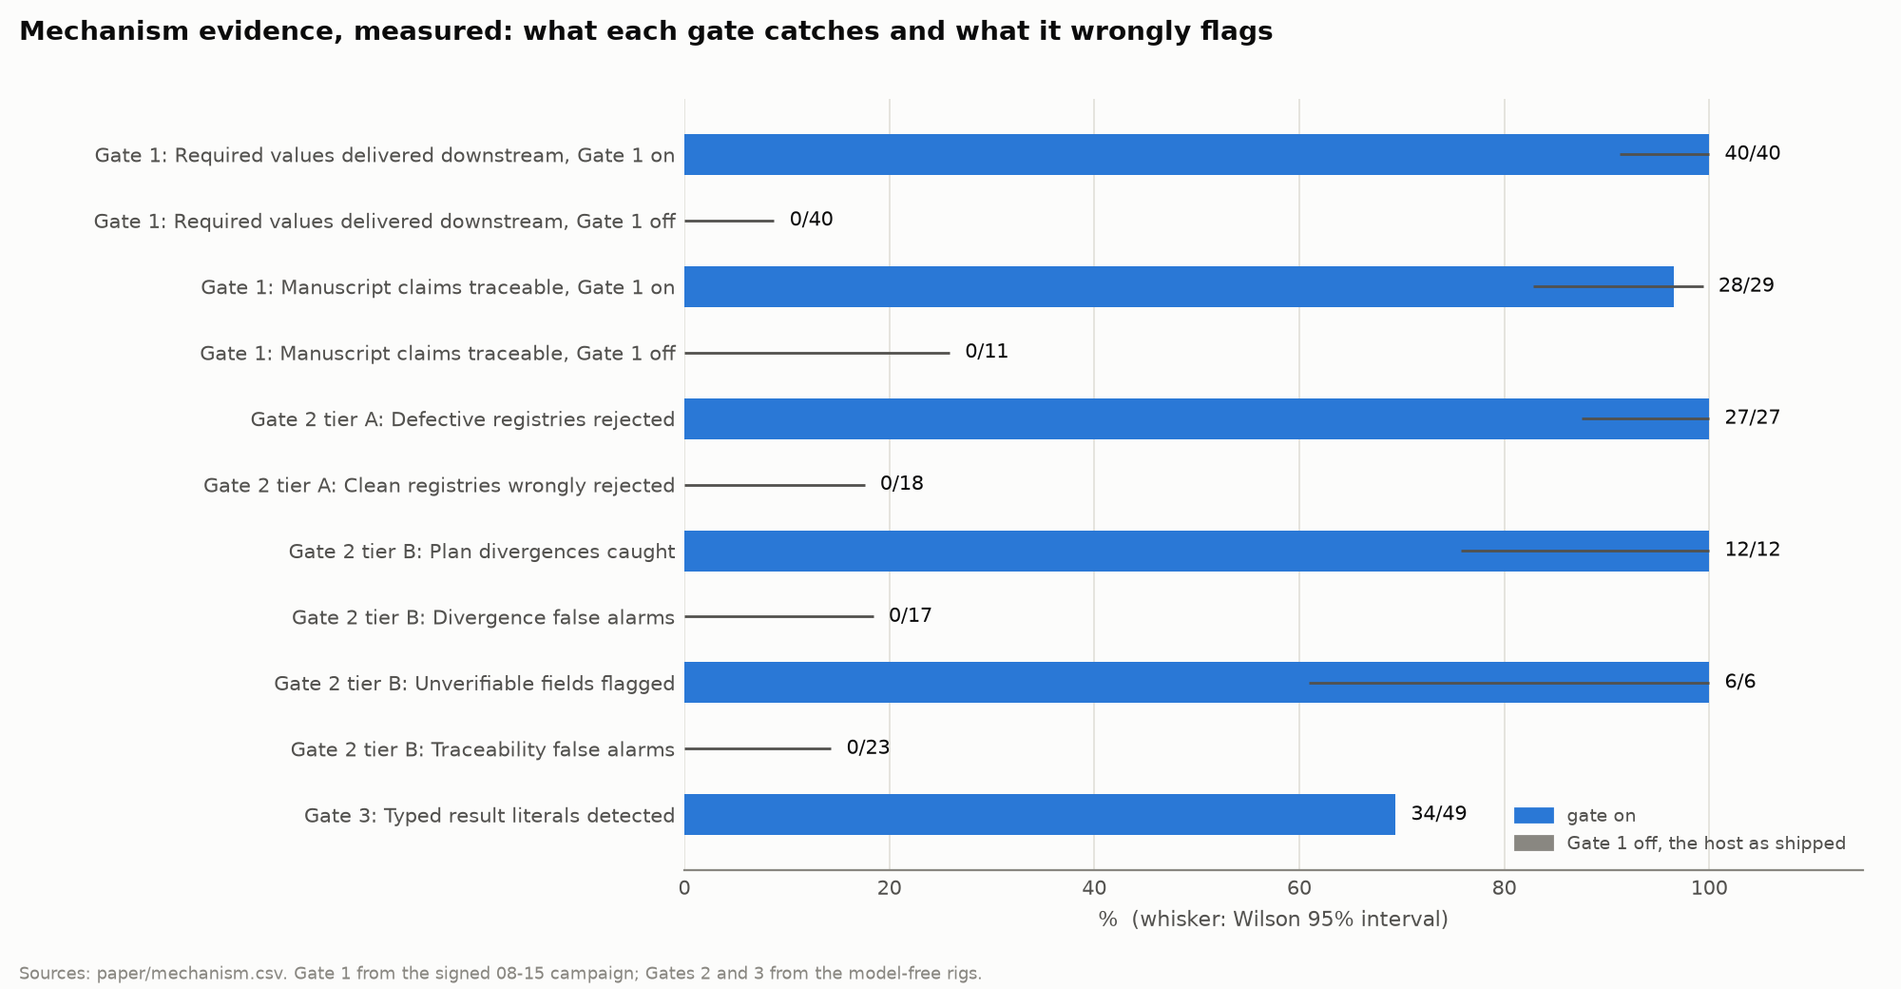
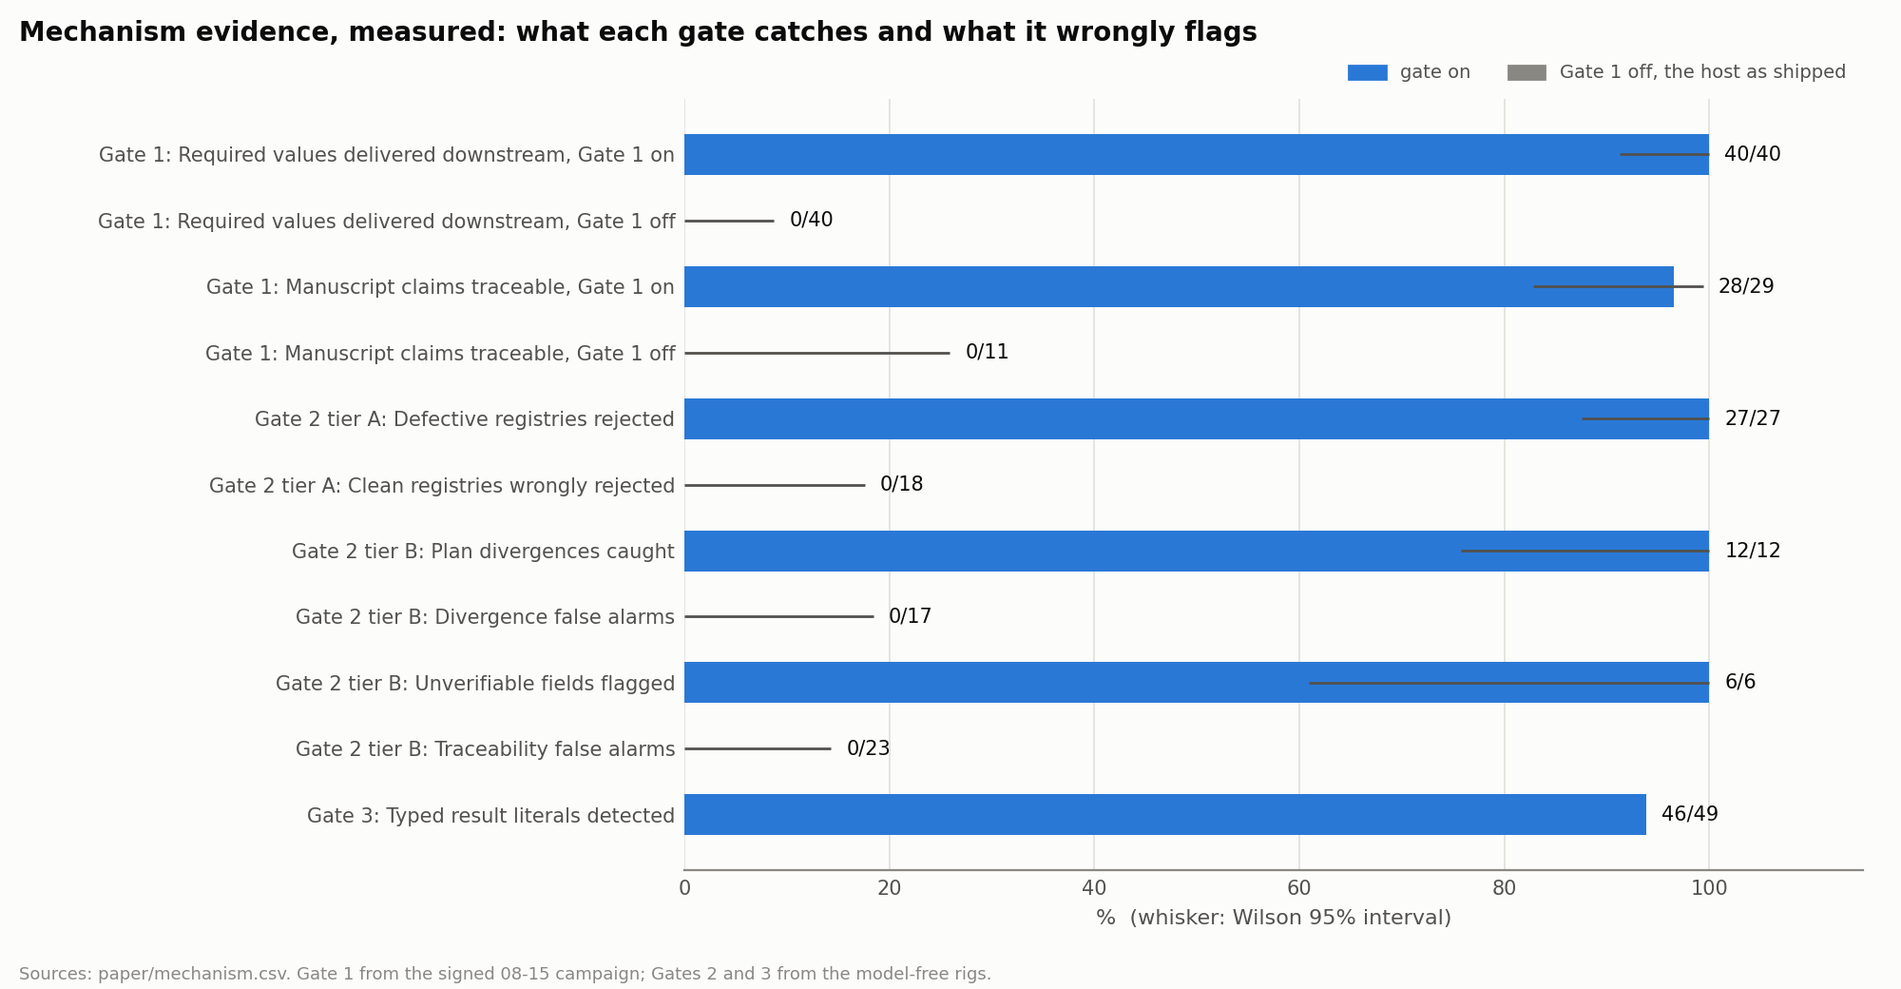
Gate 3 scanner: mask a reference per token instead of skipping its line (D76) (#8)
Supersedes D38 for this one rule. G3-M4 moves from 34 to 46 of 49
detected (all 12 skipped-line misses recovered, 2 new false positives
pending label review); Gate 1 traceability on the 08-15 campaign's gated
paper re-measures from 28 of 29 to 34 of 37. The signed package keeps
its vintage; figure 8 is redrawn.

diff --git a/gates/prose.py b/gates/prose.py
@@ -17,9 +17,12 @@ findings because it could not read the file is the exact defect this project
 exists to catch, so :func:`claim_sections` exists to make coverage visible: an
 audit over zero sections must never be presented as an audit that found nothing.
 
-LaTeX behaviour is deliberately unchanged. The published Gate 1 traceability
-number came from this scanner reading ``.tex``, and altering that path would
-silently restate a measured result.
+LaTeX behaviour was frozen until D76, because the published Gate 1
+traceability number came from this scanner reading ``.tex`` (D38). D76 masks
+references and citations per token instead of skipping their lines, and
+re-measures both numbers it restates: G3-M4 from 34 to 46 of 49, and Gate 1
+traceability on the 08-15 campaign's gated paper from 28 of 29 claims to 34 of
+37. The signed package keeps its vintage.
 """
 
 from __future__ import annotations
@@ -42,11 +45,32 @@ CLAIM_SECTIONS = (
     "conclusion",
 )
 
-#: LaTeX scaffolding whose numbers are structural, not empirical.
+#: LaTeX scaffolding whose numbers are structural, not empirical. A line
+#: carrying one is not prose, so every number on it is skipped.
 SKIP_LINE = re.compile(
-    r"\\(usepackage|documentclass|geometry|label|ref|cite|includegraphics|"
+    r"\\(usepackage|documentclass|geometry|includegraphics|"
     r"begin\{equation|end\{equation|section|subsection)"
 )
+
+#: A cross-reference, citation or label inside a sentence: ``\ref{tab:2}``,
+#: ``\eqref{eq:1}``, ``\citep[p.~3]{smith2020}``, ``\label{fig:3}``. Its digits
+#: are an identifier, so the command is masked and the rest of the line is
+#: still read (D76). Until D76 any such command skipped the whole line, which
+#: hid 12 of G3-M4's 15 missed results.
+REFERENCE = re.compile(
+    r"\\(?:[A-Za-z]*ref|[A-Za-z]*cite[A-Za-z]*|label)\*?(?:\[[^\]]*\])*\{[^}]*\}"
+)
+
+
+def scannable(line: str) -> str | None:
+    """The line as the claim scanner reads it, or ``None`` when it is scaffolding.
+
+    References and citations are blanked token by token, and arXiv ids with
+    them; what remains is read for numbers.
+    """
+    if SKIP_LINE.search(line):
+        return None
+    return CITATION.sub(" ", REFERENCE.sub(" ", line))
 
 #: Citation identifiers, removed before claims are extracted.
 #:
@@ -126,9 +150,10 @@ def claim_sections(paper_text: str) -> list[str]:
 
 def flags_claim(line: str) -> bool:
     """Whether :func:`extract_claims` takes a number from this findings line."""
-    if SKIP_LINE.search(line):
+    text = scannable(line)
+    if text is None:
         return False
-    return any(is_claim(token) for token in NUMBER.findall(CITATION.sub(" ", line)))
+    return any(is_claim(token) for token in NUMBER.findall(text))
 
 
 def sections(paper_text: str) -> list[tuple[str, str]]:
@@ -157,11 +182,11 @@ def extract_claims(paper_text: str) -> list[Claim]:
         if heading is not None:
             section = heading
             continue
-        if SKIP_LINE.search(line):
-            continue
         if not any(s in section for s in CLAIM_SECTIONS):
             continue
-        line = CITATION.sub(" ", line)
+        line = scannable(line)
+        if line is None:
+            continue
         for token in NUMBER.findall(line):
             if not is_claim(token):
                 continue

diff --git a/tests/test_gate3.py b/tests/test_gate3.py
@@ -34,7 +34,7 @@ from gates.gate3 import (
     run_gate3,
 )
 from gates.registry import CHAIN_LINKS, CLAIM_LINK, build_registry, citable_settings, citable_values
-from gates.prose import claim_sections
+from gates.prose import claim_sections, extract_claims
 from gates.report import render_feedback
 from gates.schema import PaperRecord, Severity, Verdict
 from gates.setup import defaults
@@ -1305,4 +1305,38 @@ def test_the_archived_manuscript_types_its_own_numbers(tmp_path):
     assert literals.evidence["sections_scanned"] == [
         "abstract", "results", "discussion"
     ]
-    assert len(literals.evidence["literals"]) == 29
+    # 29 while any \ref skipped its whole line; 37 once the reference is masked (D76).
+    assert len(literals.evidence["literals"]) == 37
+
+
+# --------------------------------------------------------------------------- #
+# the scanner masks references per token (D76)
+# --------------------------------------------------------------------------- #
+
+
+@pytest.mark.parametrize(
+    "line, found",
+    [
+        ("As Table~\\ref{tab:2} shows, accuracy reaches 0.91.", [0.91]),
+        ("Accuracy reaches 0.91 \\citep[p.~12]{smith2020}.", [0.91]),
+        ("Loss falls to 1.25 (Figure~\\ref{fig:1.5}, Eq.~\\eqref{eq:2024}).", [1.25]),
+        ("\\label{tab:3.14}Accuracy is 0.88.", [0.88]),
+        ("See \\autoref{sec:4.2} and \\cite{a2019,b2020}.", []),
+    ],
+)
+def test_a_reference_is_masked_and_the_rest_of_its_line_is_read(line, found):
+    """D48: 12 of G3-M4's 15 misses sat on a line carrying a \\ref."""
+    claims = extract_claims(f"\\section{{Results}}\n{line}\n")
+    assert [c.value for c in claims] == found
+
+
+@pytest.mark.parametrize(
+    "line",
+    [
+        "\\includegraphics[width=0.85\\linewidth]{fig.png}",
+        "\\subsection{Results at 0.5}",
+        "\\usepackage[margin=1.25in]{geometry}",
+    ],
+)
+def test_a_structural_line_is_still_skipped_whole(line):
+    assert extract_claims(f"\\section{{Results}}\n{line}\n") == []

diff --git a/rig/gate3_scanner_miss.py b/rig/gate3_scanner_miss.py
@@ -5,9 +5,11 @@ unmeasured false-negative rate is a scanner a reviewer will not trust, and
 ``report.no_numeric_literals_in_results`` is a scanner over prose, so the
 "eliminated by construction" claim belongs to the *pipeline* and not to it.
 
-**This measures and does not fix (D38).** The published Gate 1 traceability
+**Measured, then fixed once (D38, D76).** The published Gate 1 traceability
 number came from this scanner reading ``.tex`` (see ``gates/prose.py``), so
-changing it restates a measured result. Every gap below is reported and left in
+D38 froze it and D48 reported 34 of 49. D76 lifted the freeze for one rule,
+masking references per token instead of skipping their lines, and the
+measurement moved to 46 of 49. Every remaining gap is reported and left in
 place.
 
 **Denominator (D39).** Two manuscripts, the gated and ungated arms of the
@@ -31,12 +33,11 @@ from pathlib import Path
 sys.path.insert(0, str(Path(__file__).resolve().parents[1]))
 
 from gates.prose import (  # noqa: E402
-    CITATION,
     CLAIM_SECTIONS,
     NUMBER,
-    SKIP_LINE,
     _heading,
     is_claim,
+    scannable,
 )
 
 from rig.gate3_m4_labels import (  # noqa: E402
@@ -132,9 +133,9 @@ def _scanner_reports(line: str, visible: bool = True) -> Counter[str]:
     line numbers and this measurement needs to know which line a finding came
     from. The steps below are its steps, in its order.
     """
-    if not visible or SKIP_LINE.search(line):
+    stripped = scannable(line) if visible else None
+    if stripped is None:
         return Counter()
-    stripped = CITATION.sub(" ", line)
     kept = [t for t in NUMBER.findall(stripped) if is_claim(t)]
     # context_of() locates a token with line.find(), so repeats of one token on
     # one line share a context and all but the first are deduplicated away.

diff --git a/tests/test_gate3_m4.py b/tests/test_gate3_m4.py
@@ -40,17 +40,20 @@ def test_the_measured_totals_are_the_ones_the_paper_will_quote(results):
     missed = sum(len(results[a].missed) for a in ARMS)
     false_positives = sum(len(results[a].false_positives) for a in ARMS)
 
-    assert (claims, detected, missed) == (49, 34, 15)
-    assert false_positives == 6
-    assert results["gated"].claims == 39 and results["gated"].detected == 28
-    assert results["ungated"].claims == 10 and results["ungated"].detected == 6
+    # D48 measured 34 of 49 with 6 false positives while a \ref skipped its
+    # whole line; D76 masks the reference instead and recovers all 12 of those.
+    assert (claims, detected, missed) == (49, 46, 3)
+    assert false_positives == 8
+    assert results["gated"].claims == 39 and results["gated"].detected == 36
+    assert results["ungated"].claims == 10 and results["ungated"].detected == 10
 
 
-def test_most_misses_have_a_single_cause(results):
-    """12 of 15. The headline is not the rate, it is that one line-level rule
-    accounts for four fifths of everything the scanner cannot see."""
+def test_no_miss_is_a_skipped_line_any_more(results):
+    """D48: 12 of 15 misses came from one line-level rule. D76 removed the rule
+    for references and citations, so what is left is the scanner's by design:
+    small integers and a value repeated on one line."""
     causes = [f.cause for a in ARMS for f in results[a].missed]
-    assert causes.count("skipped_line") == 12
+    assert causes.count("skipped_line") == 0
     assert causes.count("small_integer") == 2
     assert causes.count("duplicate_context") == 1
 

diff --git a/rig/gate3_m4_labels.py b/rig/gate3_m4_labels.py
@@ -102,6 +102,13 @@ FALSE_POSITIVES: dict[str, dict[int, tuple[tuple[str, str], ...]]] = {
             ("0.99", "decision threshold fixed before the run"),
             ("0.95", "decision threshold fixed before the run"),
         ),
+        # The same thresholds restated beside Section~\ref{sec:setup}; visible
+        # once D76 masked the reference instead of skipping the line. Added
+        # 09-29 by the same rule as line 305, pending Kesh's review (D37).
+        320: (
+            ("0.99", "decision threshold fixed before the run"),
+            ("0.95", "decision threshold fixed before the run"),
+        ),
         322: (("1500", "step count the paper specifies"),),
         326: (("1500", "step count the paper specifies"),),
     },
@@ -121,6 +128,8 @@ MISS_CAUSE: dict[tuple[str, int], str] = {
     ("gated", 254): "small_integer",     # "more than 91\%"
     ("ungated", 280): "skipped_line",    # "Table~\ref{tab:observed-loss}"
 }
+# Since D76 every skipped_line entry above is detected: a reference is masked
+# per token, not the whole line. The entries stay as D48's record of the causes.
 
 #: What each cause is, for the readout. ``skipped_line`` and ``small_integer``
 #: are the readout's; ``duplicate_context`` is not, and is the one this

diff --git a/paper/figures.py b/paper/figures.py
@@ -240,7 +240,9 @@ def mechanism_figure(name):
     fig.suptitle("Mechanism evidence, measured: what each gate catches and what it wrongly flags",
                  x=0.01, ha="left", fontsize=10, weight="bold", color=INK)
     ax.legend(handles=[Patch(color=GATED, label="gate on"), Patch(color=ALONE, label="Gate 1 off, the host as shipped")],
-              loc="lower right", frameon=False, fontsize=7, labelcolor=INK2)
+              # Above the plot, so no bar can run under it: at 46 of 49 Gate 3's did.
+              loc="lower right", bbox_to_anchor=(1.0, 1.0), ncol=2,
+              frameon=False, fontsize=7, labelcolor=INK2)
     fig.text(0.01, 0.01, "Sources: paper/mechanism.csv. Gate 1 from the signed 08-15 campaign; "
              "Gates 2 and 3 from the model-free rigs.", fontsize=6.5, color=MUTED)
     fig.subplots_adjust(left=0.36, right=0.98, top=0.9, bottom=0.12)

diff --git a/rig/gate3_scenarios.py b/rig/gate3_scenarios.py
@@ -57,8 +57,8 @@ WITH_LIMITATIONS = CLEAN + "\n\\section{Discussion}\n\\limitations{}\n"
 WITH_DISCUSSION = CLEAN + "\n\\section{Discussion}\nThe label budget matters less than expected.\n"
 
 #: A figure reference with no \label to resolve against, and the fix. The
-#: reference sits on its own line because prose.SKIP_LINE drops any line
-#: holding \ref, and the accuracy above it must stay visible to the scanner.
+#: reference sits on its own line, which predates D76: prose.SKIP_LINE dropped
+#: any line holding \ref until then, and the accuracy had to stay visible.
 DANGLING_REF = CLEAN + "\nAccuracy is plotted in Figure \\ref{fig:acc}.\n"
 LABELLED_REF = DANGLING_REF + "\\begin{figure}\\label{fig:acc}\\end{figure}\n"
 

diff --git a/gates/llm_claims.py b/gates/llm_claims.py
@@ -2,8 +2,8 @@
 
 Gate 1's log scan reads the log lines its patterns did not flag. This reads the
 findings prose the number scanner did not flag. ``prose.NUMBER`` needs a
-decimal point or four digits, ``SKIP_LINE`` drops whole ``\\cite`` lines, and
-``\\begin{abstract}`` is not a heading, so all of these pass it clean:
+decimal point or four digits, and ``\\begin{abstract}`` is not a heading, so
+all of these pass it clean:
 
     accuracy improves by 9 points
     eighty-one percent of the test nodes

diff --git a/paper/draft/main.tex b/paper/draft/main.tex
@@ -253,7 +253,7 @@ Gate & Result \\
 1 & 28/29 manuscript claims traceable, against 0/11 ungated \\
 2, tier A & 27/27 defects caught, 0/18 clean registries flagged \\
 2, tier B & 12/12 and 6/6 caught, 0/17 and 0/23 false alarms \\
-3 & 34 of 49 result literals detected in two archived manuscripts \\
+3 & 46 of 49 result literals detected in two archived manuscripts \\
 \bottomrule
 \end{tabular}
 \end{table}

diff --git a/progress.md b/progress.md
@@ -17,10 +17,10 @@ otherwise would be the same overclaim as a green check that never ran. Update th
 branch: main
 head: ad3a64e
 head_date: 2026-09-29
-tests_total: 801
+tests_total: 809
 tests_gate1: 130
 tests_gate2: 101
-tests_gate3: 100
+tests_gate3: 108
 tests_llm_scan: 21
 tests_llm_layer: 14
 <!-- STATE:END -->
@@ -242,6 +242,7 @@ Append-only. One line each: date, decision, where it is enforced.
 | 09-29 | D73 | **Gate 1 follows a literal through a container and a pure reducer.** From the 09-29 review's red team: `results = {'acc': 0.95}` then `results['acc']`, and `sum([0.95])`, passed `results.values_traced` silently. `_is_literal_derived` now follows dict displays, subscripts and slices, and `_PURE_CALLS` (`sum`, `min`, `max`, `sorted`, `mean`, `median`, `np.mean`, `np.array` and similar) when every argument is constant; converters take constant keywords (`round(x, ndigits=2)`). At the call site such a value is `literal` and fails `results.values_computed`; through a name it is `constant` and warns. A container the run fills after binding it is not constant (`_filled_containers`): an item or attribute store, a method call other than a read, or being passed to a call makes the name opaque, and aliases share it; a float passed to `print` stays constant. Test stand-ins that used `sum([1])` for a measurement now call a function the program defines (`measure`, `evaluate`), including `rig/gate2_scenarios.py`; the one they rely on is the new `# limit:` in `gates/static_checks.py`: a program-defined function is never looked inside, so `def measure(): return 0.95` still launders a literal. | `gates/static_checks.py` |
 | 09-29 | D74 | **The red team is a fixed rig, and its misses are stated outcomes.** `rig/red_team.py` plants a fabricated `exp1.test_acc` eleven ways plus an honest control, runs each once through the real Gates 1 and 2 at a budget of one, and sorts it `blocked`, `warned` (a warning names the key) or `silent`. Today, after D73: S1 literal at the call blocked; S2 variable, S3 dict, S4 reducer and S11 per-epoch-best-last warned; S5 random in band, S6 nudged, S7 best epoch, S8 dropped seed, S9 best seed and S10 train-as-test silent; S0 passes clean. Before D73 it was 1, 2 and 8. `tests/test_red_team.py` holds each outcome, so a gate that starts catching one is a changed test, and the six silent method-level strategies are the Limitations the paper states: each records a value real computation produced. | `rig/red_team.py`, `tests/test_red_team.py` |
 | 09-29 | D75 | **Settings get their own call and token, and a constant result fails.** Decided by Kesh (the full split, after D72). `record_setting(key, value, unit=)` joins `record_result` and `record_metadata` in the harness; `ExecutionRecord.settings`, the registry's `settings` section (no claim chain) and `registry.citable_settings` carry it; schema 1.2. Gate 3: `\setting{key}` renders from the settings and resolves only there (`TOKEN`, `Substitution.kind`); a `\result{}` naming a setting, or a `\setting{}` naming a result, is missing. D71's exemption is removed, and with it D72's `Claim.text` and `prose.spelled`, which had no other reader: every bare numeral in a findings section fails again, whatever the keys contain. Gate 1: `results.values_traced` is FAIL, and its message and fix text point at `record_setting`; B8's decoy check and `arg_kind` apply to settings. Gate 2 plan fields resolve against settings and results. `MLE_GATE_INSTRUCTIONS` and `REPORT_GATE_INSTRUCTIONS` in `gates/pipeline.py` teach both, and the writer's evidence bundle lists RECORDED SETTINGS apart from the results. The host imports both prompts and Gate 3's renderer from gates (`ai_lab_repo.py:2`, `mlesolver.py:13`, `ai_lab_repo.py:445` at `d36cb06`), so no host code changes; a wave pinned at or after this commit runs the new prompts. Red team (D74) now 14 strategies: S2-S4 blocked (4 blocked, 1 warned, 9 silent); S12 a result recorded as a setting, S13 tuple unpacking and S14 a program-defined function are silent and stated limits. Test fixtures that stood for a measurement with a plain constant now use tuple unpacking or a `measure()` the program defines; `rig/scenarios.py` WARNS_BUT_PASSES and LEAK_BINDS likewise, and `rig/gate2_scenarios.py` records its plan values with `record_setting`. Cost: waves 2-3 ran with the old contract, so a level 3 paper of theirs is not comparable in its Gate 1 verdict to one from a wave at this commit; the paper states the contract each wave ran under. | `gates/harness.py`, `gates/gate1.py`, `gates/gate3.py`, `gates/registry.py`, `gates/pipeline.py` |
+| 09-29 | D76 | **The claim scanner masks a reference per token instead of skipping its line; supersedes D38 for that one rule.** Decided by Kesh (unfreeze and re-measure). `prose.REFERENCE` blanks `\ref`, `\eqref`, `\autoref`, `\cref`, `\cite`, `\citep[...]`, `\label` and their kin; `prose.scannable()` is the one line reader for `extract_claims`, `flags_claim` and `rig/gate3_scanner_miss.py`. `SKIP_LINE` keeps structural scaffolding only (packages, geometry, graphics, equation environments, headings). Re-measured, before and after: G3-M4 34 of 49 detected, 15 missed, 6 false positives, becomes 46 of 49, 3 missed (2 small integers, 1 same-line repeat), 8 false positives; all 12 `skipped_line` misses recovered. The 2 new false positives are ungated line 320, the thresholds 0.99 and 0.95 restated beside `\ref{sec:setup}`, labelled by the same rule as line 305's (`rig/gate3_m4_labels.py`), **pending Kesh's review (D37)**. Gate 1 traceability, re-run read-only through `rig/audit_papers.py`'s audit functions on the 08-15 campaign: gated 28 of 29 claims traceable becomes 34 of 37 (96.6% to 91.9%); ungated 6 of 11 becomes 10 of 17; archived 0 of 65 becomes 0 of 69. `paper/mechanism.csv` keeps the signed campaign's 28 of 29 and 0 of 11 as their vintage, and the paper states the re-measured values beside them. The archived gated manuscript's typed literals go from 29 to 37 (`test_the_archived_manuscript_types_its_own_numbers`). `paper/mechanism.csv` `g3_detect` 46 of 49; figure 8 redrawn with its legend above the plot. | `gates/prose.py`, `rig/gate3_scanner_miss.py`, `paper/mechanism.csv` |
 
 ## session log
 
@@ -323,3 +324,4 @@ Tier A verified per-commit in a throwaway worktree: 395 → 399 → 405 → 415 
 | 09-29 | T2 PR | **D73.** Gate 1 container and reducer tracing, red first (21 tests: 10 hidden literals now constant or literal, 10 filled or aliased containers stay computed, a scalar or its alias passed to `print` stays constant); six test stand-ins moved off `sum([...])`. 785 gates tests. |
 | 09-29 | T3 PR | **D74.** Red-team rig: 12 strategies held at 1 blocked, 4 warned, 6 silent, control clean (15 tests). 800 gates tests. |
 | 09-29 | T4 PR | **D75.** `record_setting` and `\setting{}`; D71 exemption removed; constant results fail. Red first for the new behaviour (bare numerals beside keys naming them, token sections, settings in the registry, prompts, writer view, decoy on settings, shadowed `record_setting`). 801 gates tests. |
+| 09-29 | T5 PR | **D76.** Per-token reference masking, 8 tests (4 red on the old scanner, 4 guards). G3-M4 46/49, Gate 1 traceability re-measured 34/37 gated. 809 gates tests. |

diff --git a/docs/PLAN.md b/docs/PLAN.md
@@ -652,7 +652,7 @@ State as of 2026-09-26.
 | 4 | Fix `run_experiments.py --yaml-location` and re-run the archive for a real n | CLI fixed. The re-run is replaced by the benchmark evaluation (D60) |
 | 5 | The channel-fidelity experiment: fabrication rate against `MAX_LEN` | Detector arm measured offline by `rig/reward.py`. Writer arm not scheduled |
 | 6 | Gate 2 | Built: tiers A and B, and the loop through Gate 1. Evaluated offline: tier A 27/27 and 0/18, tier B 29/29 |
-| 7 | Gate 3 | Built: `report.*` with claim chains, `source.*`, `style.*`, the loop and the model layer. Scanner miss measured, 34 of 49 |
+| 7 | Gate 3 | Built: `report.*` with claim chains, `source.*`, `style.*`, the loop and the model layer. Scanner miss measured, 34 of 49 (D48), 46 of 49 after per-token reference masking (D76) |
 | 8 | `GATES_LEVEL`, the shared loops in `gates/pipeline.py`, per-gate install skills | done (D58, D59) |
 | 9 | The benchmark evaluation: CORE-Bench, MLR-Bench and BadScientist at four levels (D60) | Planned in `paper/PLAN.md`. Its tooling is built (`paper/collect.py`, `rig/posthoc_audit.py`, `rig/stats.py`); the host's four-level runner is next, then the pilot |
 

diff --git a/paper/PLAN.md b/paper/PLAN.md
@@ -228,7 +228,7 @@ These say how the gates behave; the figures above say what they change.
 | Gate 1 | reviewer score 3.735 gated against 3.765 ungated: the evidence channel, not the science, changed | `README.md`, measured results |
 | Gate 2 tier A | 27/27 defects caught, 0/18 clean registries flagged, over 45 labelled registries | `rig/gate2_tier_a_eval.py` |
 | Gate 2 tier B | 12/12 and 6/6 caught, 0/17 and 0/23 false alarms, over 29 cases | `rig/gate2_tier_b_eval.py` |
-| Gate 3 | 34 of 49 result literals in two archived manuscripts detected, 15 missed, 12 of the misses from one rule | `rig/gate3_scanner_miss.py` (G3-M4, D48) |
+| Gate 3 | 46 of 49 result literals in two archived manuscripts detected, 3 missed (2 small integers, 1 repeated value), 8 false positives; 34 of 49 before references were masked per token (D76) | `rig/gate3_scanner_miss.py` (G3-M4, D48, D76) |
 
 The mechanism metrics M1-M6 are defined in `docs/PLAN.md` §8.2.
 
